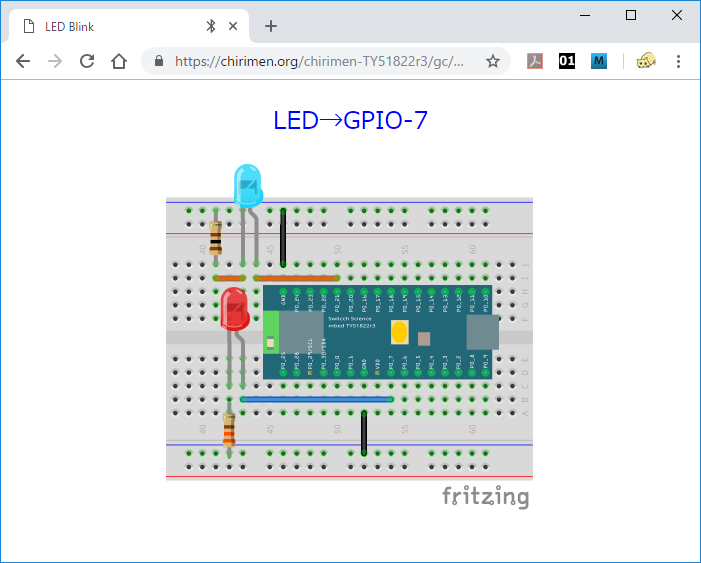
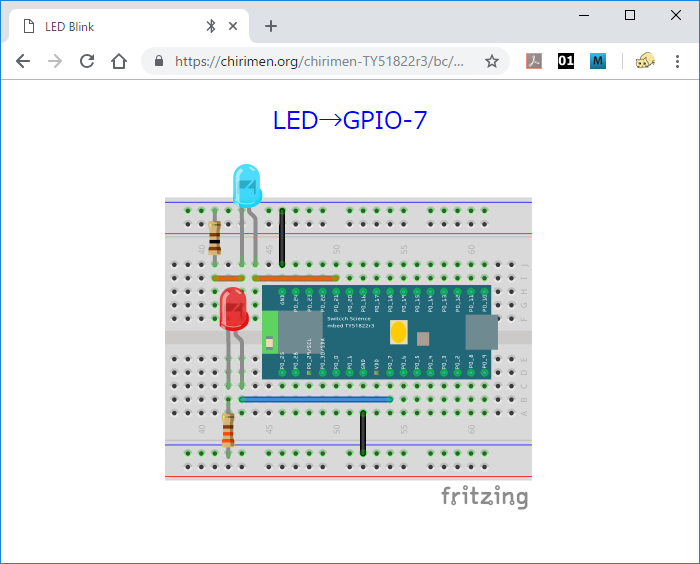
rename to CHIRIMEN for TY51822r3

diff --git a/ble/ja/examples/test_switch_onchange.html b/ble/ja/examples/test_switch_onchange.html
@@ -1,4 +1,4 @@
-<script src="https://chirimen.org/chirimen-TY51822r3/gc/polyfill/blePolyfill.js"></script>
+<script src="https://chirimen.org/chirimen-TY51822r3/bc/polyfill/blePolyfill.js"></script>
 
 <button id="connect">BLE 接続</button><br/><br/>
 <div id="ledView" style="width:60px;height:60px;border-radius:30px;background:#000"></div>

diff --git a/ble/ja/examples/test_switch_poll.html b/ble/ja/examples/test_switch_poll.html
@@ -1,4 +1,4 @@
-<script src="https://chirimen.org/chirimen-TY51822r3/gc/polyfill/blePolyfill.js"></script>
+<script src="https://chirimen.org/chirimen-TY51822r3/bc/polyfill/blePolyfill.js"></script>
 
 <button id="connect">BLE 接続</button><br/><br/>
 <div id="ledView" style="width:60px;height:60px;border-radius:30px;background:#000"></div>

diff --git a/ble/ja/examples/test_click_led.html b/ble/ja/examples/test_click_led.html
@@ -1,4 +1,4 @@
-<script src="https://chirimen.org/chirimen-TY51822r3/gc/polyfill/blePolyfill.js"></script>
+<script src="https://chirimen.org/chirimen-TY51822r3/bc/polyfill/blePolyfill.js"></script>
 
 <button id="connect">BLE 接続</button><br/><br/>
 <button id="onoff">ON/OFF</button><br/><br/>

diff --git a/ble/ja/faq.md b/ble/ja/faq.md
@@ -1,111 +1,38 @@
 # 良くある質問と回答
 
-CHIRIMEN Raspi3 を利用していて良くある質問や回答のメモページです。利用上のテクニックや知っておくと良いことは [TIPS ページ](tips.md) に書いているので、そちらも合わせてご覧ください。
+CHIRIMEN for TY51822r3 を利用していて良くある質問や回答のメモページです。利用上のテクニックや知っておくと良いことは [TIPS ページ](tips.md) に書いているので、そちらも合わせてご覧ください。
 
 ## できること・できないこと
 
-### CHIRIMEN Raspi3 では何が出来ますか？
+### CHIRIMEN for TY51822r3 では何が出来ますか？
 
-CHIRIMEN Raspi3 は一般的な Web アプリケーションの開発環境に、GPIO と I2C という IoT プロトタイピングなどでよく使われるハードウェアインターフェイスを [Web GPIO API](http://browserobo.github.io/WebGPIO/) と [WebI2C API](http://browserobo.github.io/WebI2C/) を用いてウェブブラウザの JavaScript から直接制御可能にしたものです。
+CHIRIMEN for TY51822r3 は一般的な Web アプリケーションの開発環境に、GPIO と I2C という IoT プロトタイピングなどでよく使われるハードウェアインターフェイスを [Web GPIO API](http://browserobo.github.io/WebGPIO/) と [WebI2C API](http://browserobo.github.io/WebI2C/) を用いてウェブブラウザの JavaScript から直接制御可能にしたものです。
 
-デスクトップの Web アプリで出来ることは全て同じようにして実装可能ですし、Web アプリで出来ないことはローカルのサーバと通信させたり拡張機能を作って通信させたりして他のコンテキストや言語の環境で実行させることもあります。いろいろな応用の仕方は [TIPS ページ](tips.md) も参考にしてください。
+デスクトップ PC などで走らす事ができる Web アプリとハードウェアとのインターフェースは Bluetooth LE (BLE) で接続する、小さな BLE ボード (TY51822r3) で行います。
 
-GPIO, I2C 以外によく見聞きするハードのインターフェイスについては次の通りです:
+Web アプリとハードウェアのインターフェースは Web Bluetooth API 上に構築されている専用のプロトコルを経由しますので、インターフェースが準備されている GPIO、I2C 以外の TY51822r3 上のペリフェラル (例えば UART や SPI など) を Web アプリ側から使用する事はできません。
 
-* UART
-  * MIDI であれば WebMIDI からコントロール可能です。それ以外はローカルにサーバを立ててサーバ側で処理するなどしてください。
-* PWM
-  * [CHIRIMEN Examplesに掲載されているI2C PWMコントローラ PCA9685](http://chirimen.org/chirimen-raspi3/gc/top/examples/)を使って、サーボ・DCモーター・さらにLEDのPWM制御ができます。
-  * それ以外はローカルにサーバを立ててサーバ側で処理するか Arduino を組み合わせるなどして制御します。いずれの場合もデバイスの仕様 (データシート) をしっかり確認してから使ってください。対応する周波数以外の信号を送るとデバイスにロックがかかったり発熱して故障したりする原因となります。
-* SPI
-  * クロック、入力、出力の 3 本で双方向通信を行う機能です。CHIRIMEN では現在の所 SPI を JavaScript から直接制御する API を実装していません。SPI を利用したい場合はローカルにサーバを立ててサーバ側で処理するか Arduino を組み合わせるなどして制御します。
-  
 また、GPIO, I2Cに対しては以下の制限があります。
 * GPIO
-  * 概ね50ms以下の周期で細かくHigh/Lowを切り替える必要があるもの（例えばステッピングモータを高速に動かしたいなど）や、概ね50ms以上の精度を必要とするも、複数のGPIO端子を同様な高精度で同期させる必要があるものは困難です。
-  * ハードウェア上で用意されている本数以上のGPIOを用いるもの（I2C接続のGPIOマルチプレクサを使うことでI2C経由で対応可能と思われますが未検証です)
+  * 概ね 300ms 以下の周期で細かく High/Low を切り替える必要があるもの（例えばステッピングモータを高速に動かしたいなど）や、概ね300ms 以上の精度を必要とするも、複数の GPIO 端子を同様な高精度で同期させる必要があるものは困難です。
+  * サポートされるポートは P0_0 ～ P0_7 を GPIO 0 ～ 7 番として 8 本のみサポートします。TY51822r3 のその他のピンを GPIO として使用する事はできません。
+
 * I2C
-  * 標準モード以外のモードで動作するもの
-  * ハードウェア上で用意されている本数以上のI2Cバスの本数が必要なもの
+  * 標準モード以外のモードで動作するものはサポートしません。
+  * サポートされる I2C バスは 1 本のみです。また MBED の標準とは異なるピンアサインで使用します :  
+    > P0_29 => SCL  
+    > P0_30 => SDA
 
 ## 動作環境
 
-### Raspberry Pi 3 Model A+ はサポートしないの？
+現在サポートされている BLE ボードは  
+  スイッチサイエンス : TY51822r3 のみです。
 
-理論的には移植可能と考えられますが、本ページの執筆時点では技適通過モデルの販売が開始されておらず、未検証です。Model B, Model B++ と比べると Model A+ ではメモリ容量が半分となるため、Chromium 以外に多くのアプリケーションを同時に起動すると処理が重たくなることが予想されます。
+## サービス連携、他のプログラムとの連携等
 
-### Raspberry Pi Zero はサポートしないの？
+* 例えばメールの送信など TY51822r3 に接続されたハードウェアに関わらない機能に関しては純粋に PC 側で走る Web アプリとして実装する事で利用する事ができます。
 
-論理的には移植可能と考えられますが、未検証・未対応です。
-
-### Raspberry Pi 以外のボードでは動作しないの？
-
-CHRIMEN コミュニティで公式にサポートしている環境はありませんが、Chrome (Chromium) や Firefox のようなブラウザが動作し、Node サーバなどがインストールできる環境であればほぼ同様にして動作するように移植可能と考えられます (実際いくつかのボードで試して使っているコミュニティメンバーもいます)。
-
-もちろん、ポート番号など物理配線が違う場合はそれに合わせてコードを書き換える必要があることには注意が必要です。
-
-## サービス連携
-
-### メールを送信したい
-
-スパム対策などもあり、ローカルのメールサーバなどからの送信は正しく配信されないことがあるため、Gmail などのメールサービスを利用して送信することが望ましいです。Gmail などのメール送信 API を利用するための認証などの実装が面倒な場合は IFTTT のトリガーとして [Webhook](https://ifttt.com/maker_webhooks) を、アクションとして [Gmail](https://ifttt.com/gmail) を利用するなどすれば比較的簡単にメールの送信が可能です。
-
-### LINE, Slack その他のサービスと連携したい
-
-IFTTT のトリガーとして [Webhook](https://ifttt.com/maker_webhooks) を利用すると簡単に様々なサービスとの連携が可能です。Webhook 用の URL や使い方は IFTTT にログインしてから [Webhook](https://ifttt.com/maker_webhooks) ページからリンクされている documents ページや [Webhooks settings ページ](https://ifttt.com/services/maker_webhooks/settings) をご覧ください。
-
-IFTTT では応答性が悪い (トリガーをキックしてからアクションまでの待ち時間が長すぎる) 場合は連携先のサービスの API を使って自分で直接各サービスとの連携を実装してください。
-
-## 他のプログラムとの連携
-
-CHIRIMEN ではブラウザ上の JavaScript だけでハードウェア制御を可能にしていますが、様々な理由で C, Python, Node, シェルスクリプトなどで書かれたコードと連携したいことがあります。そのような場合はブラウザの JavaScript とバックエンドのコードとの間を WebSocket で接続して通信させながら動作させてください (非常に高速な通信が必要な場合は除く)。
-
-例えば Node で WebSocket サーバを作る場合はこのように index.js ファイルを作成し
-
-```javascript
-// Node で実行する JavaScript (index.js)
-var WebSocketServer = require('ws').Server;
-var wss = new WebSocketServer({ port:8080 });
-
-wss.on('connection', function(ws) {
-    // ブラウザからメッセージを受信した時の処理
-    ws.on('message', function(message) {
-        console.log("Message Received: " + message);
-    });
-
-    // ブラウザにメッセージを送信する時の処理
-    wss.clients.forEach(function(client){
-        client.send("A message from server");
-    });
-});
-```
-
-次のように ws モジュールのインストールと node サーバの実行をすればサーバが起動します。
-
-```sh
-// ws モジュールを現在のディレクトリにインストール (初回一度だけ必要)
-npm install ws
-// index.js を node で実行する:
-node index.js
-```
-
-この Node サーバにブラウザ側からは次のようにメッセージの送受信が可能です。
-
-```javascript
-// ブラウザで実行する JavaScript
-var ws = new WebSocket('ws://localhost:8080');
-ws.addEventListener('open', function(event){
-    console.log('WebSocket 接続完了');
-
-    // サーバからメッセージを受け取ったときの処理
-    ws.addEventListener('message',function(e){
-        console.log("Message Recieved: " + e.data);
-    });
-    
-    // サーバにデータを送信するときの処理
-    ws.send("A message from browser");
-});
-```
+* Web アプリ側に接続されているハードウェアを動かしたい場合は、通常の Web アプリとして Web USB API や Web MIDI API、またはハードウェア制御のバックエンドのサーバープログラムと WebSocket で通信するなどの方法を取ってください。
 
 
 ## トラブルシューティング
@@ -139,11 +66,6 @@ element.addEventListener("click", async function() { await sleep(100); }, false)
 element.addEventListener("click", async () => { await sleep(100); }, false);
 ```
 
-### JS Bin のコンソールに `error: ws error: [object Event]` と表示される
-### コンソールに `WebSocket connection to 'wss://localhost:33330/' failed: Error in connection establishment: net::ERR_CONNECTION_REFUSED` などと表示される
-
-CHIRIMEN Raspi3 のバックエンドサーバに接続できていません。デスクトップの reset.sh で再起動してください。
-
 ### JavaScript から特定の URL にアクセスできない
 ### コンソールに `Failed to load https://...: No 'Access-Control-Allow-Origin' header is present on the requested resource. Origin 'https://...' is therefore not allowed access.` などと表示される
 ### コンソールに `Access to fetch at 'https://...' from origin 'https://...' has been blocked by CORS policy: No 'Access-Control-Allow-Origin' header is present on the requested resource.` などと表示される
@@ -160,22 +82,19 @@ CHIRIMEN に限らず一般的な Web 開発でよく見かけるエラーです
 いろいろな原因が考えらるため、ひとつずつ確認していく必要があります。
 
 * 開発者ツールのコンソールに何かエラーメッセージは出ていないですか？
-  * JS Bin などのコンソールだけでなく、ブラウザのエラーコンソールも確認してください
   * 何もエラーが出ないと言っても最初に 1 行だけエラーが出ているケースなどあります。ページをリロードして何もエラーがないか確認してください
 * 開発者ツールのネットワークパネルで読み込みできていないファイルはないですか？
   * polyfill や driver などを相対パスで読み込んでいる HTML のディレクトリを移動させた場合、相対パスが変わって必要なファイルが読み込みできなくなっていることがあります
 * 配線は本当に正しいですか？
-  * 慌てて配線すると RasPi のピンの配置を 180° 反転させた逆向けで配線していることがあります
+  * 慌てて配線するとピンの配置を 180° 反転させた逆向けで配線していることがあります
 * 配線はしっかりしていますか？
   * ジャンパーピンやピンヘッダーの太さが細すぎないか。ブレッドボードに刺す前提で細いピンヘッダを採用しているセンサー (秋月電子の商品など) がありますが、これらをピンソケットに刺すと接触が不安定になることがあります
   * センサー類などの基盤にピンヘッダーを付けている場合はそれがしっかり半田付けされているか
 * 利用ハードウェアに不良・故障はないか？
   * 不良・故障の可能性のあるハードを順に交換して試してください
-  * ソフトウェアと違いハードウェアには配線を間違って使うと不可逆的な損傷を受けて正常動作しなくなるパーツも存在します。抵抗無しで LED を接続して焼け飛ぶ場合や DC ファンを極性と異なる向きに繋いで焼いてしまった場合などが典型的ですが、壊れたら交換するしかありません
+  * ソフトウェアと違いハードウェアには配線を間違って使うと不可逆的な損傷を受けて正常動作しなくなるパーツも存在します。壊れたら交換するしかありません
   * サーボモータドライバーなど手作業での半田付けを行うピンヘッダ数が多いパーツなどは半田付けになれている人が作らなければ不良品になることが多く見られます。半田付け直後は動作しても保管している間にダメになるケースもあるので注意してください
   * ジャンパーケーブルのような単純なパーツも安物であれば大容量の電流を流したり曲げを繰り返していると繋がらなくなるケースがあります。ブレッドボードも繰り返し使っているうちにピンの固定が緩く接触不良になることがあります。消耗品は調子が悪くなったら交換してください
-* CHIRIMEN Raspi3 のバックエンドサーバに問題がないか？
-  * 同時に複数のタブで同一ポートにアクセスしたりする場合、大抵は適切に排他制御されてタブを閉じてから開き直すだけで解決しますが、処理の仕方やタイミングなどによっては何らかの理由でバックエンドサーバに不具合が起きる場合もあるようです。デスクトップの reset.sh で再起動して再度試してみてください。
 
 ハンズオン・ハッカソン・講義など、講師やチューターなどのいる時は、色々試して分からないときは一人で悩まず遠慮なく質問しましょう。
 ひとつのことに悩んで糸口が見つけられないまま何十分も過ごさず、どんどん質問してデバッグテクニックや回避策などを教わってスキルを向上させていってください。
@@ -210,4 +129,4 @@ CHIRIMEN に限らず一般的な Web 開発でよく見かけるエラーです
 - 機材の故障
   - LED など内部抵抗の小さいデバイスを抵抗無しで通電するなどすると故障します
   - DC ファンなど極性のあるデバイスは逆指しすると故障します
-  - 配線中にショートさせたりするとデバイスも RasPi ボードも故障します
+  - 配線中にショートさせたりするとデバイスもボードも故障します

diff --git a/ble/ja/appendix0.md b/ble/ja/appendix0.md
@@ -1,14 +1,14 @@
-この資料は CHIRIMEN-TY51822r3 を使った講習会向けの Tips です。
+この資料は CHIRIMEN for TY51822r3 を使った講習会向けの Tips です。
 # 非同期処理 (async await 版)
 
 ## はじめに
-[Javascript の初歩](https://webiotmakers.github.io/static/docs/2017/maebashi-js.pdf)を勉強した後、CHIRIMEN-TY51822r3 でデバイスを接続してコントロールできるようになるには、一つ重要な概念とそのコーディングの作法を学ぶ必要があります。それが**非同期処理**という特別な処理方法です。
+[Javascript の初歩](https://webiotmakers.github.io/static/docs/2017/maebashi-js.pdf)を勉強した後、CHIRIMEN for TY51822r3 でデバイスを接続してコントロールできるようになるには、一つ重要な概念とそのコーディングの作法を学ぶ必要があります。それが**非同期処理**という特別な処理方法です。
 
 ## 非同期処理
-CHIRIMEN-TY51822r3 でのプログラミングでは、センサーやアクチュエータを使いますが、これらは動作するのに無視できない時間がかかります。例えば、体温計の測定やロボットハンドの腕の動きを想像してみてください。非同期処理はこのような動作に時間がかかる処理において、**処理の完了を待って次の処理を行う**ときによく使われます。*(非同期処理無しに待とうとすれば、その間ブラウザ画面がフリーズしてしまいます。）*
+CHIRIMEN for TY51822r3 でのプログラミングでは、センサーやアクチュエータを使いますが、これらは動作するのに無視できない時間がかかります。例えば、体温計の測定やロボットハンドの腕の動きを想像してみてください。非同期処理はこのような動作に時間がかかる処理において、**処理の完了を待って次の処理を行う**ときによく使われます。*(非同期処理無しに待とうとすれば、その間ブラウザ画面がフリーズしてしまいます。）*
 
 非同期処理のプログラムにはいくつもの書き方があり、統一されていません。また、入れ子が深かったり、無名関数が使われていたりして、読み解くのが難しい書き方がほとんどです。CHIRIMEN の講習では async await を用いた方法に統一して説明をするようにしています。関数の入れ子を作らずに非同期処理が書け、基本的な文法を学んだ方にとって比較的わかりやすい記法のためです。
-* *注記1: async await はかなり新しい javascript の文法です。が、CHIRIMEN-TY51822r3 をはじめ新しいウェブブラウザは既にサポートしています*
+* *注記1: async await はかなり新しい javascript の文法です。が、新しいウェブブラウザは既にサポートしています*
 * *注記2: 非同期処理はセンサーやアクチュエータを使った処理固有のものではありません。例えばサーバに問合せを行い返答を待機する時やキーの入力を待機する　などのときにも使われます。web アプリでよく使われる処理です。*
 
 ## async 接頭詞

diff --git a/README.md b/README.md
@@ -1,10 +1,10 @@
-## CHIRIMEN-TY51822r3 チュートリアル
+## CHIRIMEN for  TY51822r3 チュートリアル
 
-CHIRIMEN-TY51822r3 を用いた IoT システムプロトタイピングスキル習得のためのチュートリアル資料です。
+CHIRIMEN for TY51822r3 を用いた IoT システムプロトタイピングスキル習得のためのチュートリアル資料です。
 
 JavaScript プログラミング未経験者は、まず Appendix の「[JavaScript 1 Day 講習](https://webiotmakers.github.io/static/docs/2017/maebashi-js.pdf)」などで JavaScript の基本を学んでおくことをオススメします。
 
-## [0. Hello World](ble/ja/section0.md)
+## [0. Hello World 編](ble/ja/section0.md)
  [Web GPIO API](https://rawgit.com/browserobo/WebGPIO/master/) を使って定期的に LED を点滅するサンプルを動かしてみます。
 
 ## [1. GPIO 編](ble/ja/section1.md)
@@ -22,6 +22,6 @@ JavaScript 未経験者や非同期処理の未経験者はチュートリアル
 
 知っておくと良い Tips 集やよくある質問はそれぞれまとめたページがあるので参考にしてください:
 
-* [TY51822r3 の CHIRIMEN-TY51822r3 用プログラムをビルドする](ble/ja/bridge.md)
+* [TY51822r3 の CHIRIMEN for TY51822r3 用プログラムをビルドする](ble/ja/bridge.md)
 * [Tips 集] (tips.md)
 * [良くある質問] (faq.md)

diff --git a/ble/ja/bridge.md b/ble/ja/bridge.md
@@ -1,6 +1,6 @@
 # TY51822r3 のファームウェアをビルドする
 
-CHIRIMEN-TY51822r3 を利用するには使用する BLE ボード TY51822r3 に専用のファームウェアを書き込む必要があります。
+CHIRIMEN for TY51822r3 を利用するには使用する BLE ボード TY51822r3 に専用のファームウェアを書き込む必要があります。
 
 TY51822r3 は MBED をサポートしており、PC と USB で接続するとドライブとして認識されます。単にビルド済みのバイナリを書き込むだけであれば、PC と接続した時に認識されたドライブにバイナリファイル (.hex) をコピーするだけで書き込み操作が行われます。
 
@@ -16,7 +16,7 @@ MBED はブラウザ上で使用できるオンラインの開発環境です。
 
 ## 2. プログラムのインポート
 
-CHIRIMEN-TY51822r3 のファームウェアは下のリンクで公開されています。
+CHIRIMEN for TY51822r3 のファームウェアは下のリンクで公開されています。
 
 [btGPIO_TY51](https://os.mbed.com/users/nakamura_bs/code/btGPIO_TY51/)
 

diff --git a/ble/readme.md b/ble/readme.md
@@ -1,5 +1,5 @@
-You can find tutorials for CHIRIMEN-TY51822r3 in this directory
+You can find tutorials for CHIRIMEN for TY51822r3 in this directory
 
-このディレクトリは、CHIRIMEN-TY51822r3 用のチュートリアルが格納されています。
+このディレクトリは、CHIRIMEN for TY51822r3 用のチュートリアルが格納されています。
 * [ENGLISH](EN)
 * [日本語](JA)
